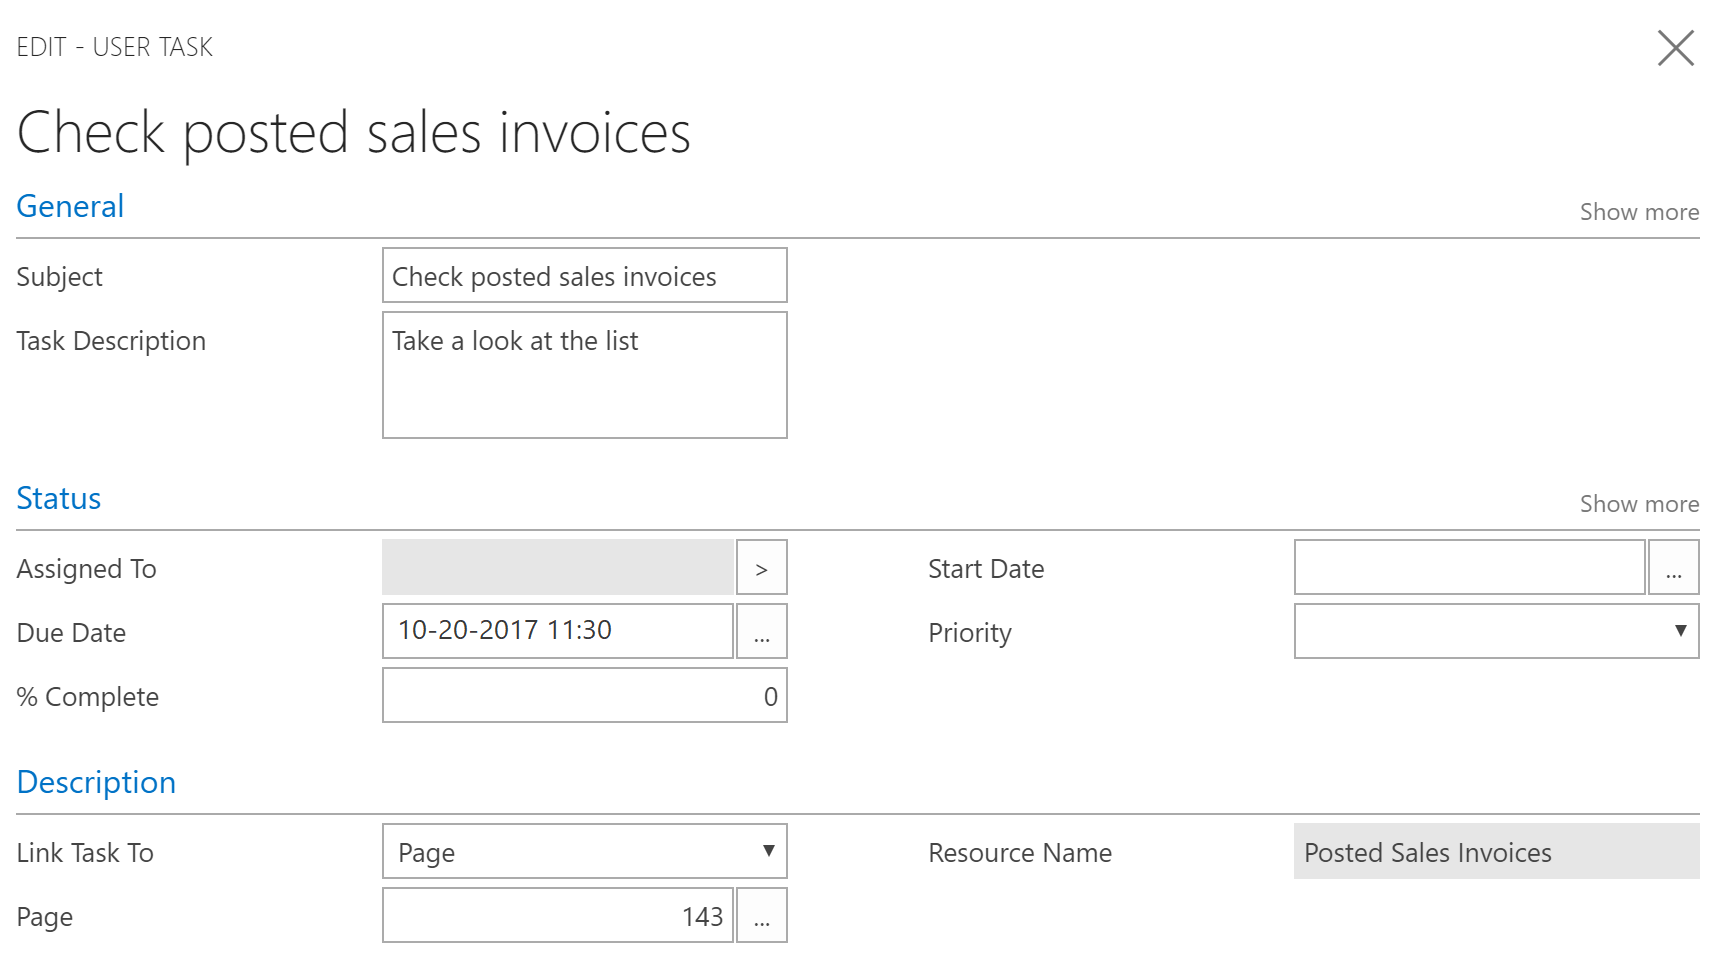
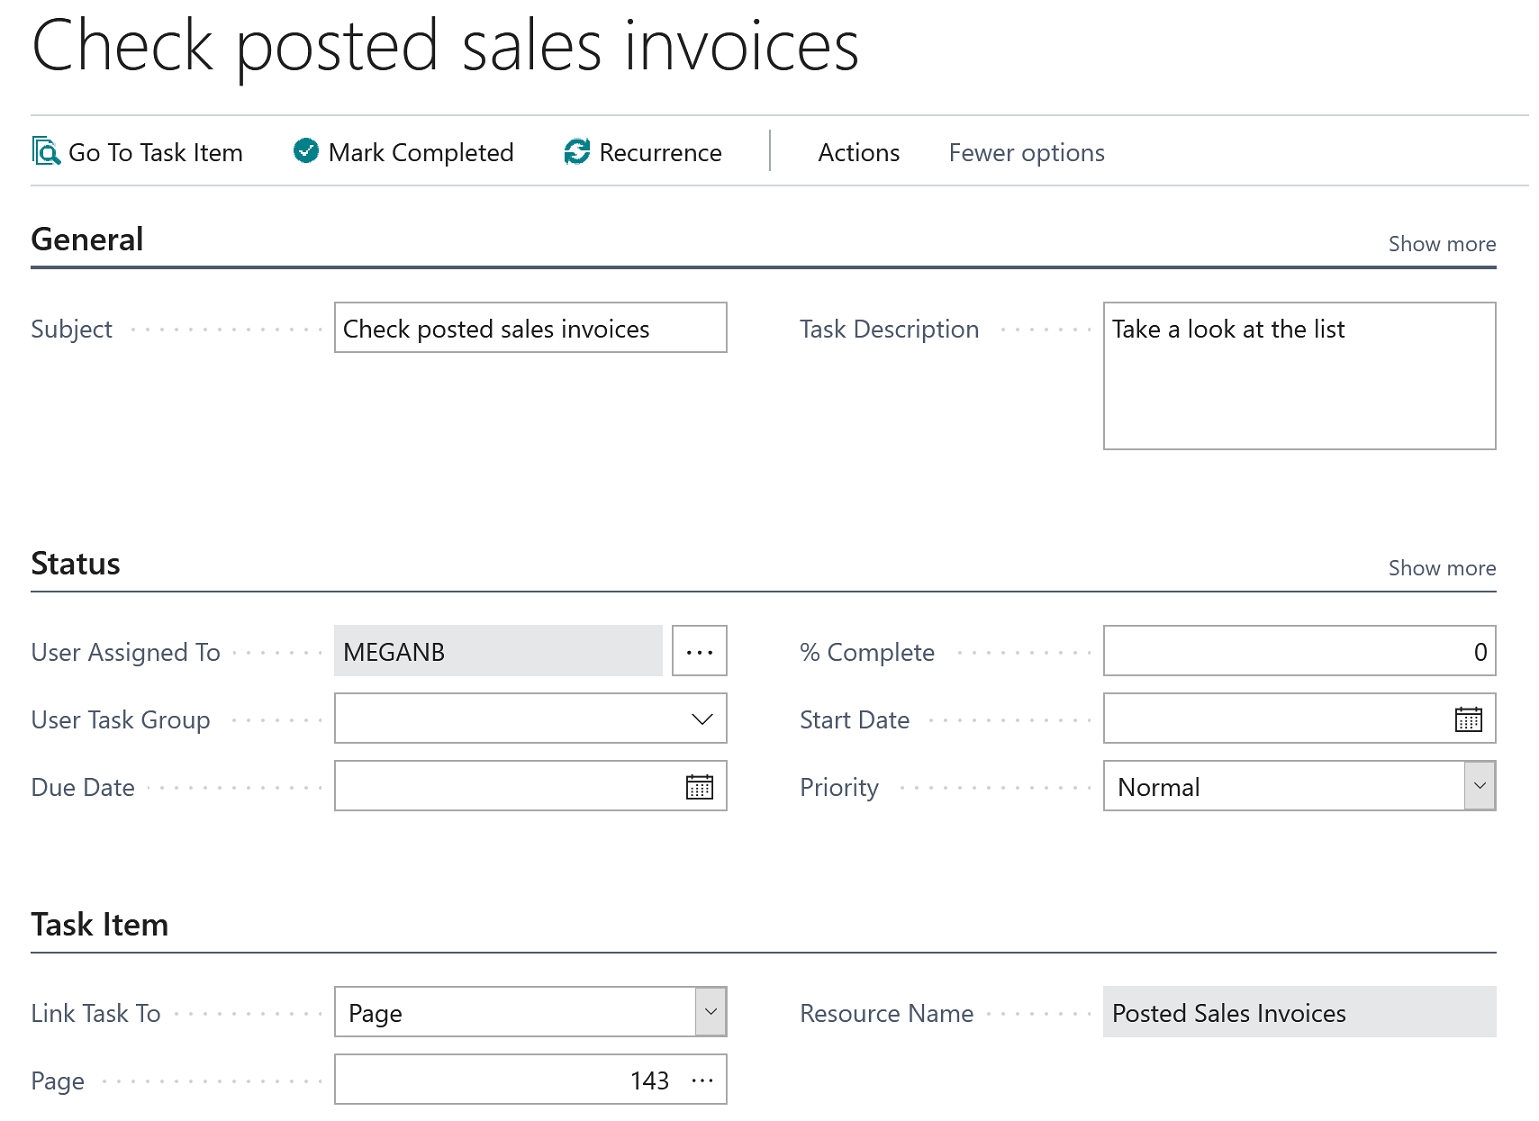
issue #400

diff --git a/business-central/across-user-tasks.md b/business-central/across-user-tasks.md
@@ -9,31 +9,38 @@ ms.devlang: na
 ms.tgt_pltfrm: na
 ms.workload: na
 ms.search.keywords: tasks, work
-ms.date: 04/01/2020
+ms.date: 07/14/2020
 ms.author: edupont
 
 ---
 # Define User Tasks
+
 In [!INCLUDE[d365fin](includes/d365fin_md.md)], you can create tasks to remind you of work to be done. You can create tasks for yourself, but you can also assign tasks to others or be assigned a task by someone else in your organization.  
 
 ## Managing User Tasks
-The **User Tasks** page shows all tasks, and you can easily create and assign new tasks. When you create a task, you can specify the start date and due date, and you can add a link to the page in [!INCLUDE[d365fin](includes/d365fin_md.md)] where the user must do the work.  
 
-For example, you can create a task for yourself to view all posted sales invoices. In that case, you link the task to page 143, Posted Sales Invoices.  
+The **User Tasks** page shows all tasks, and you can easily create and assign new tasks. When you create a task, you can specify the start date and due date, and you can add a link to the page or report in [!INCLUDE[d365fin](includes/d365fin_md.md)] where the user must do the work.  
 
-![Example of a User Task](media/across-user-tasks/sample-user-task.png "Example of a user task")
+For example, you can create a task for yourself or a coworker to view all posted sales invoices. In that case, you link the task to page 143, **Posted Sales Invoices**. In the following screenshot, someone is creating a task for MeganB to review the posted sales invoices.  
+
+:::image type="content" source="media/across-user-tasks/sample-user-task.png" alt-text="Example of a user task":::
 
 > [!TIP]  
->  Use the look-up in the **Page** field and then use the **Search for Page or Report** field to find the page that you want. For more information, see [Searching for a Page or Report](ui-search.md).  
+> Use the look-up in the **Page** field and then use the **Search** field to find the page that you want.  
+>
+> You can link to any page, but you cannot link to individual entries, so make the description as explicit as possible, such as writing "Please take a look at customer no. 10000 and make sure they don't have overdue payments.".
 
 ### Picking Up User Tasks
+
 In the Business Manager, Bookkeeper, and Accountant Role Centers, a tile shows pending tasks that are assigned to that user. To pick up a task, simply choose it from the list of pending user tasks. In the ribbon, the link **Go to Task Item** opens the page where you can do the work.  
 
 When you have completed a task, simply mark it as completed.  
 
 ### Deleting User Tasks
+
 If you want to bulk delete all or some user tasks, you can use the **Delete User Tasks** report. In the request page, you can set filters to determine which tasks must be deleted.  
 
 ## See Also
+
 [Searching for a Page or Report](ui-search.md)  
 [Accountant Experiences in [!INCLUDE[d365fin](includes/d365fin_md.md)]](finance-accounting.md)  
